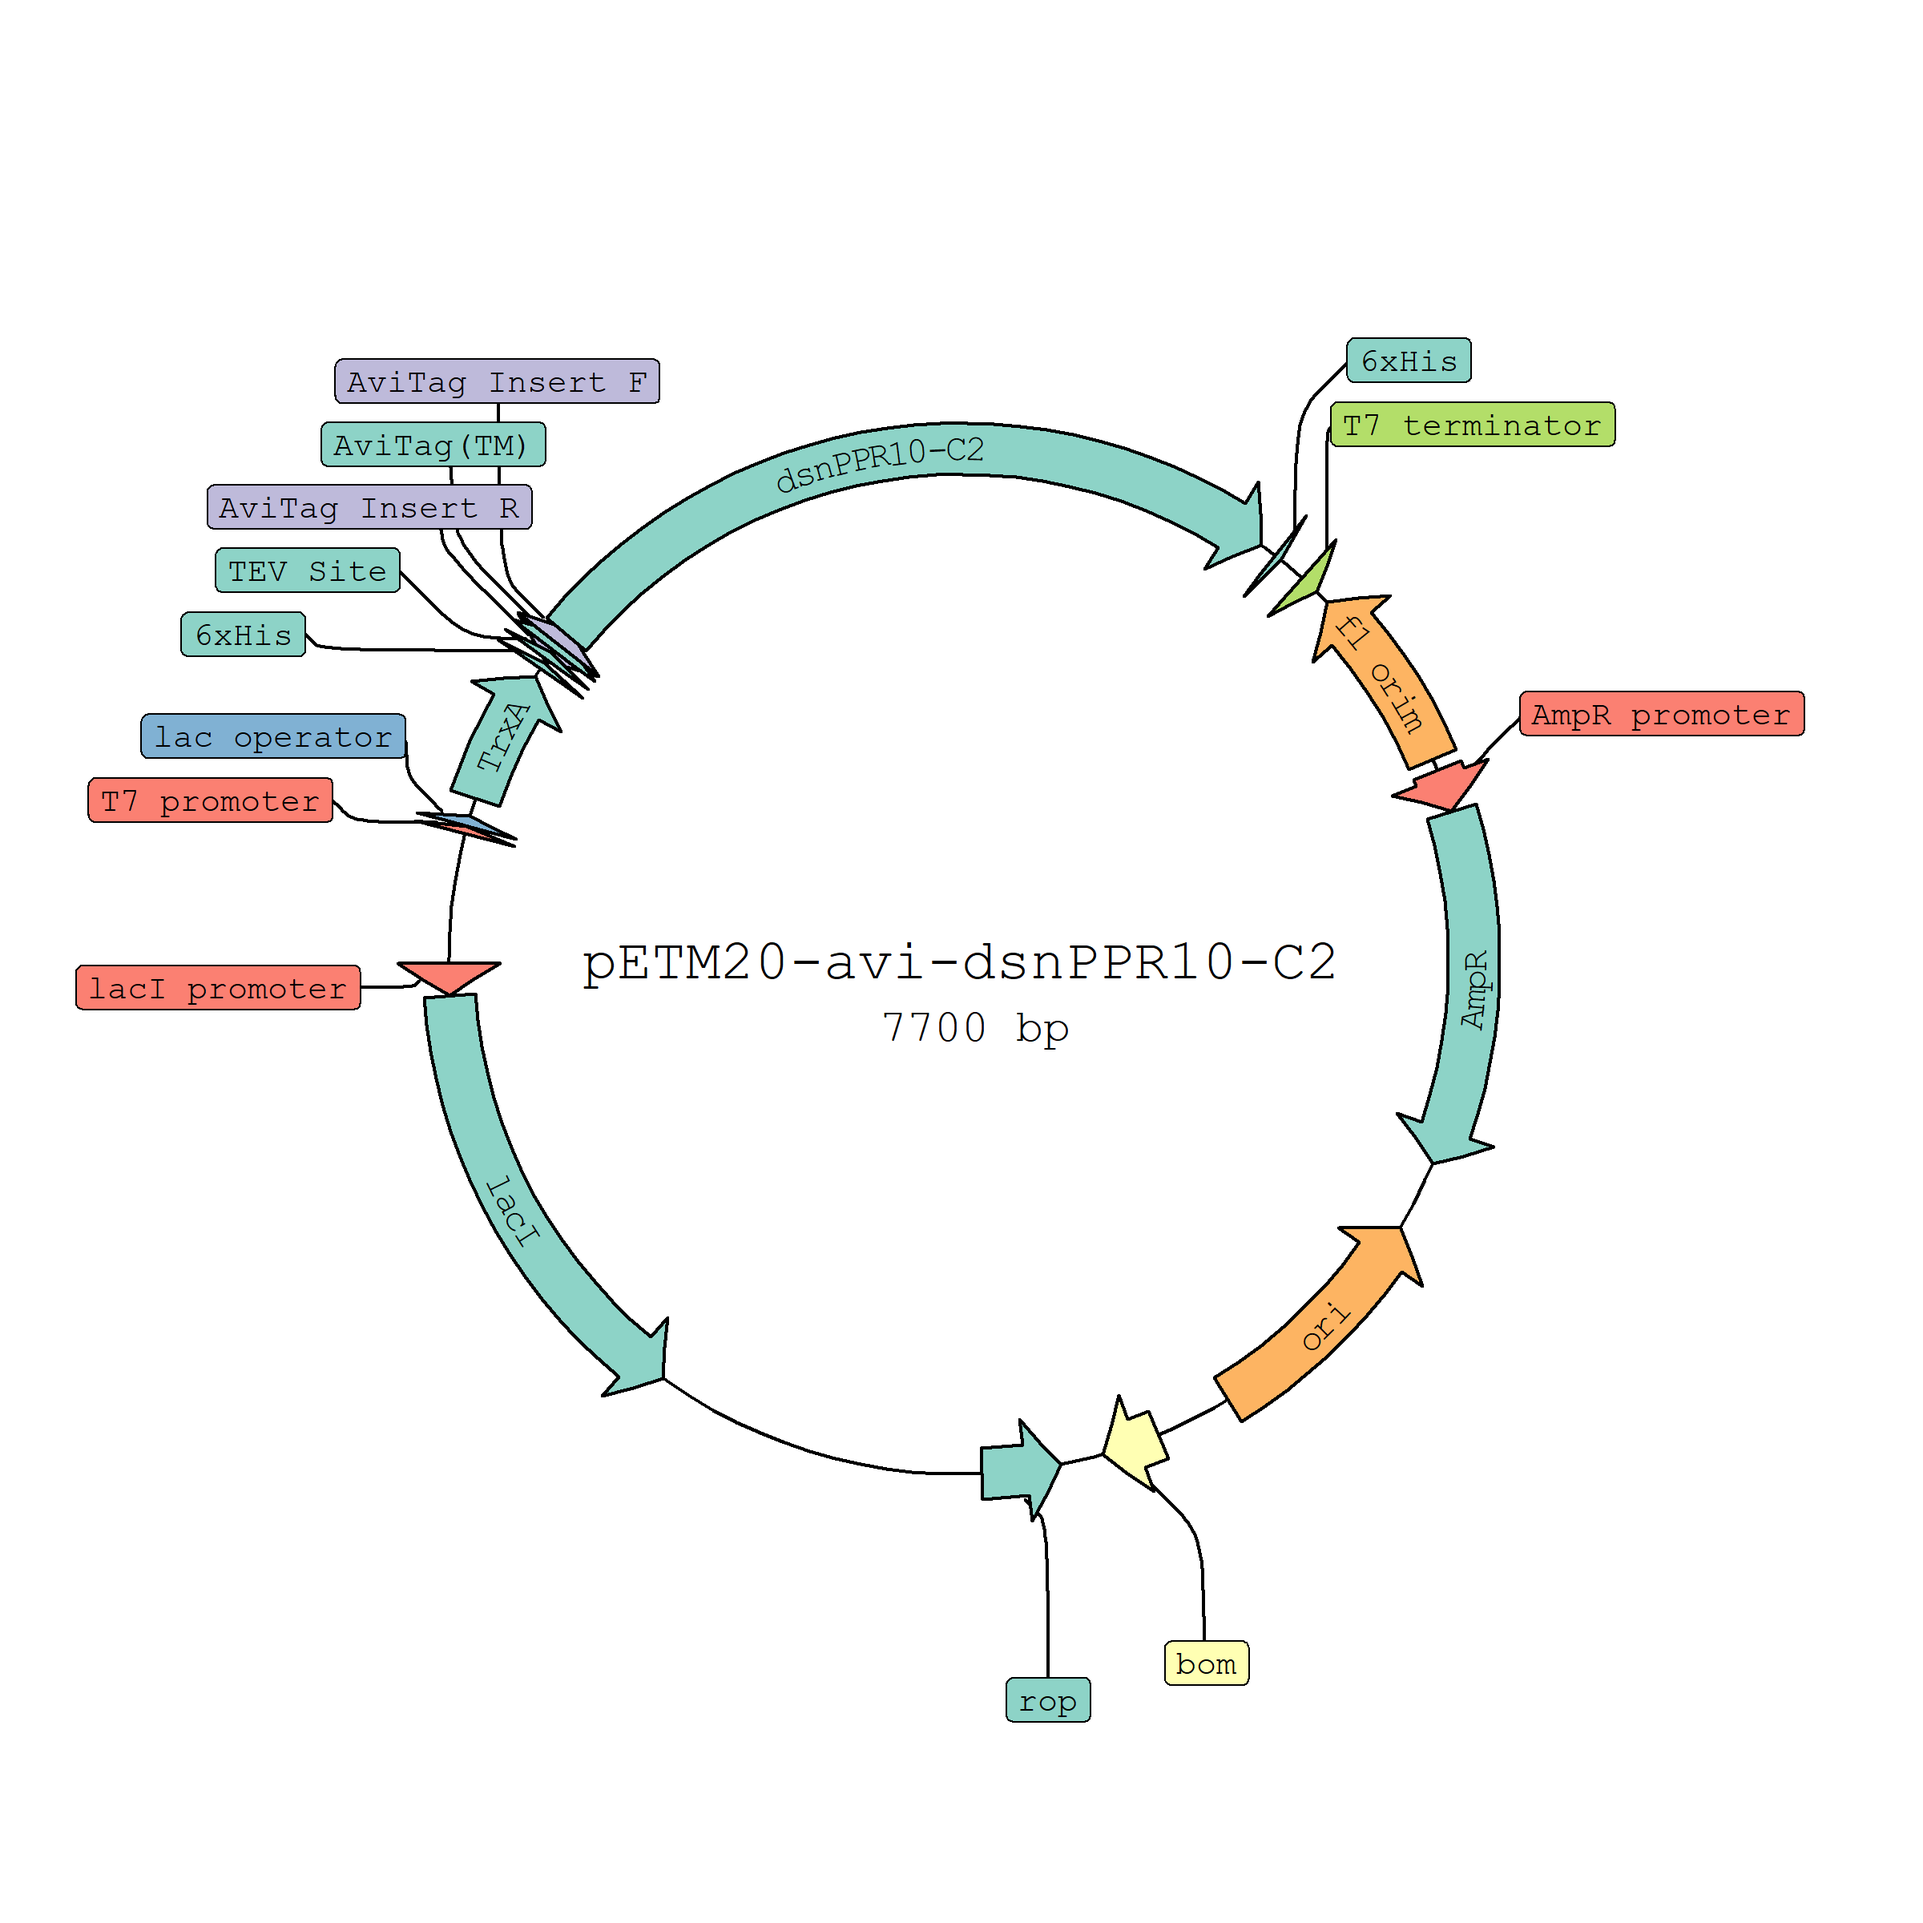
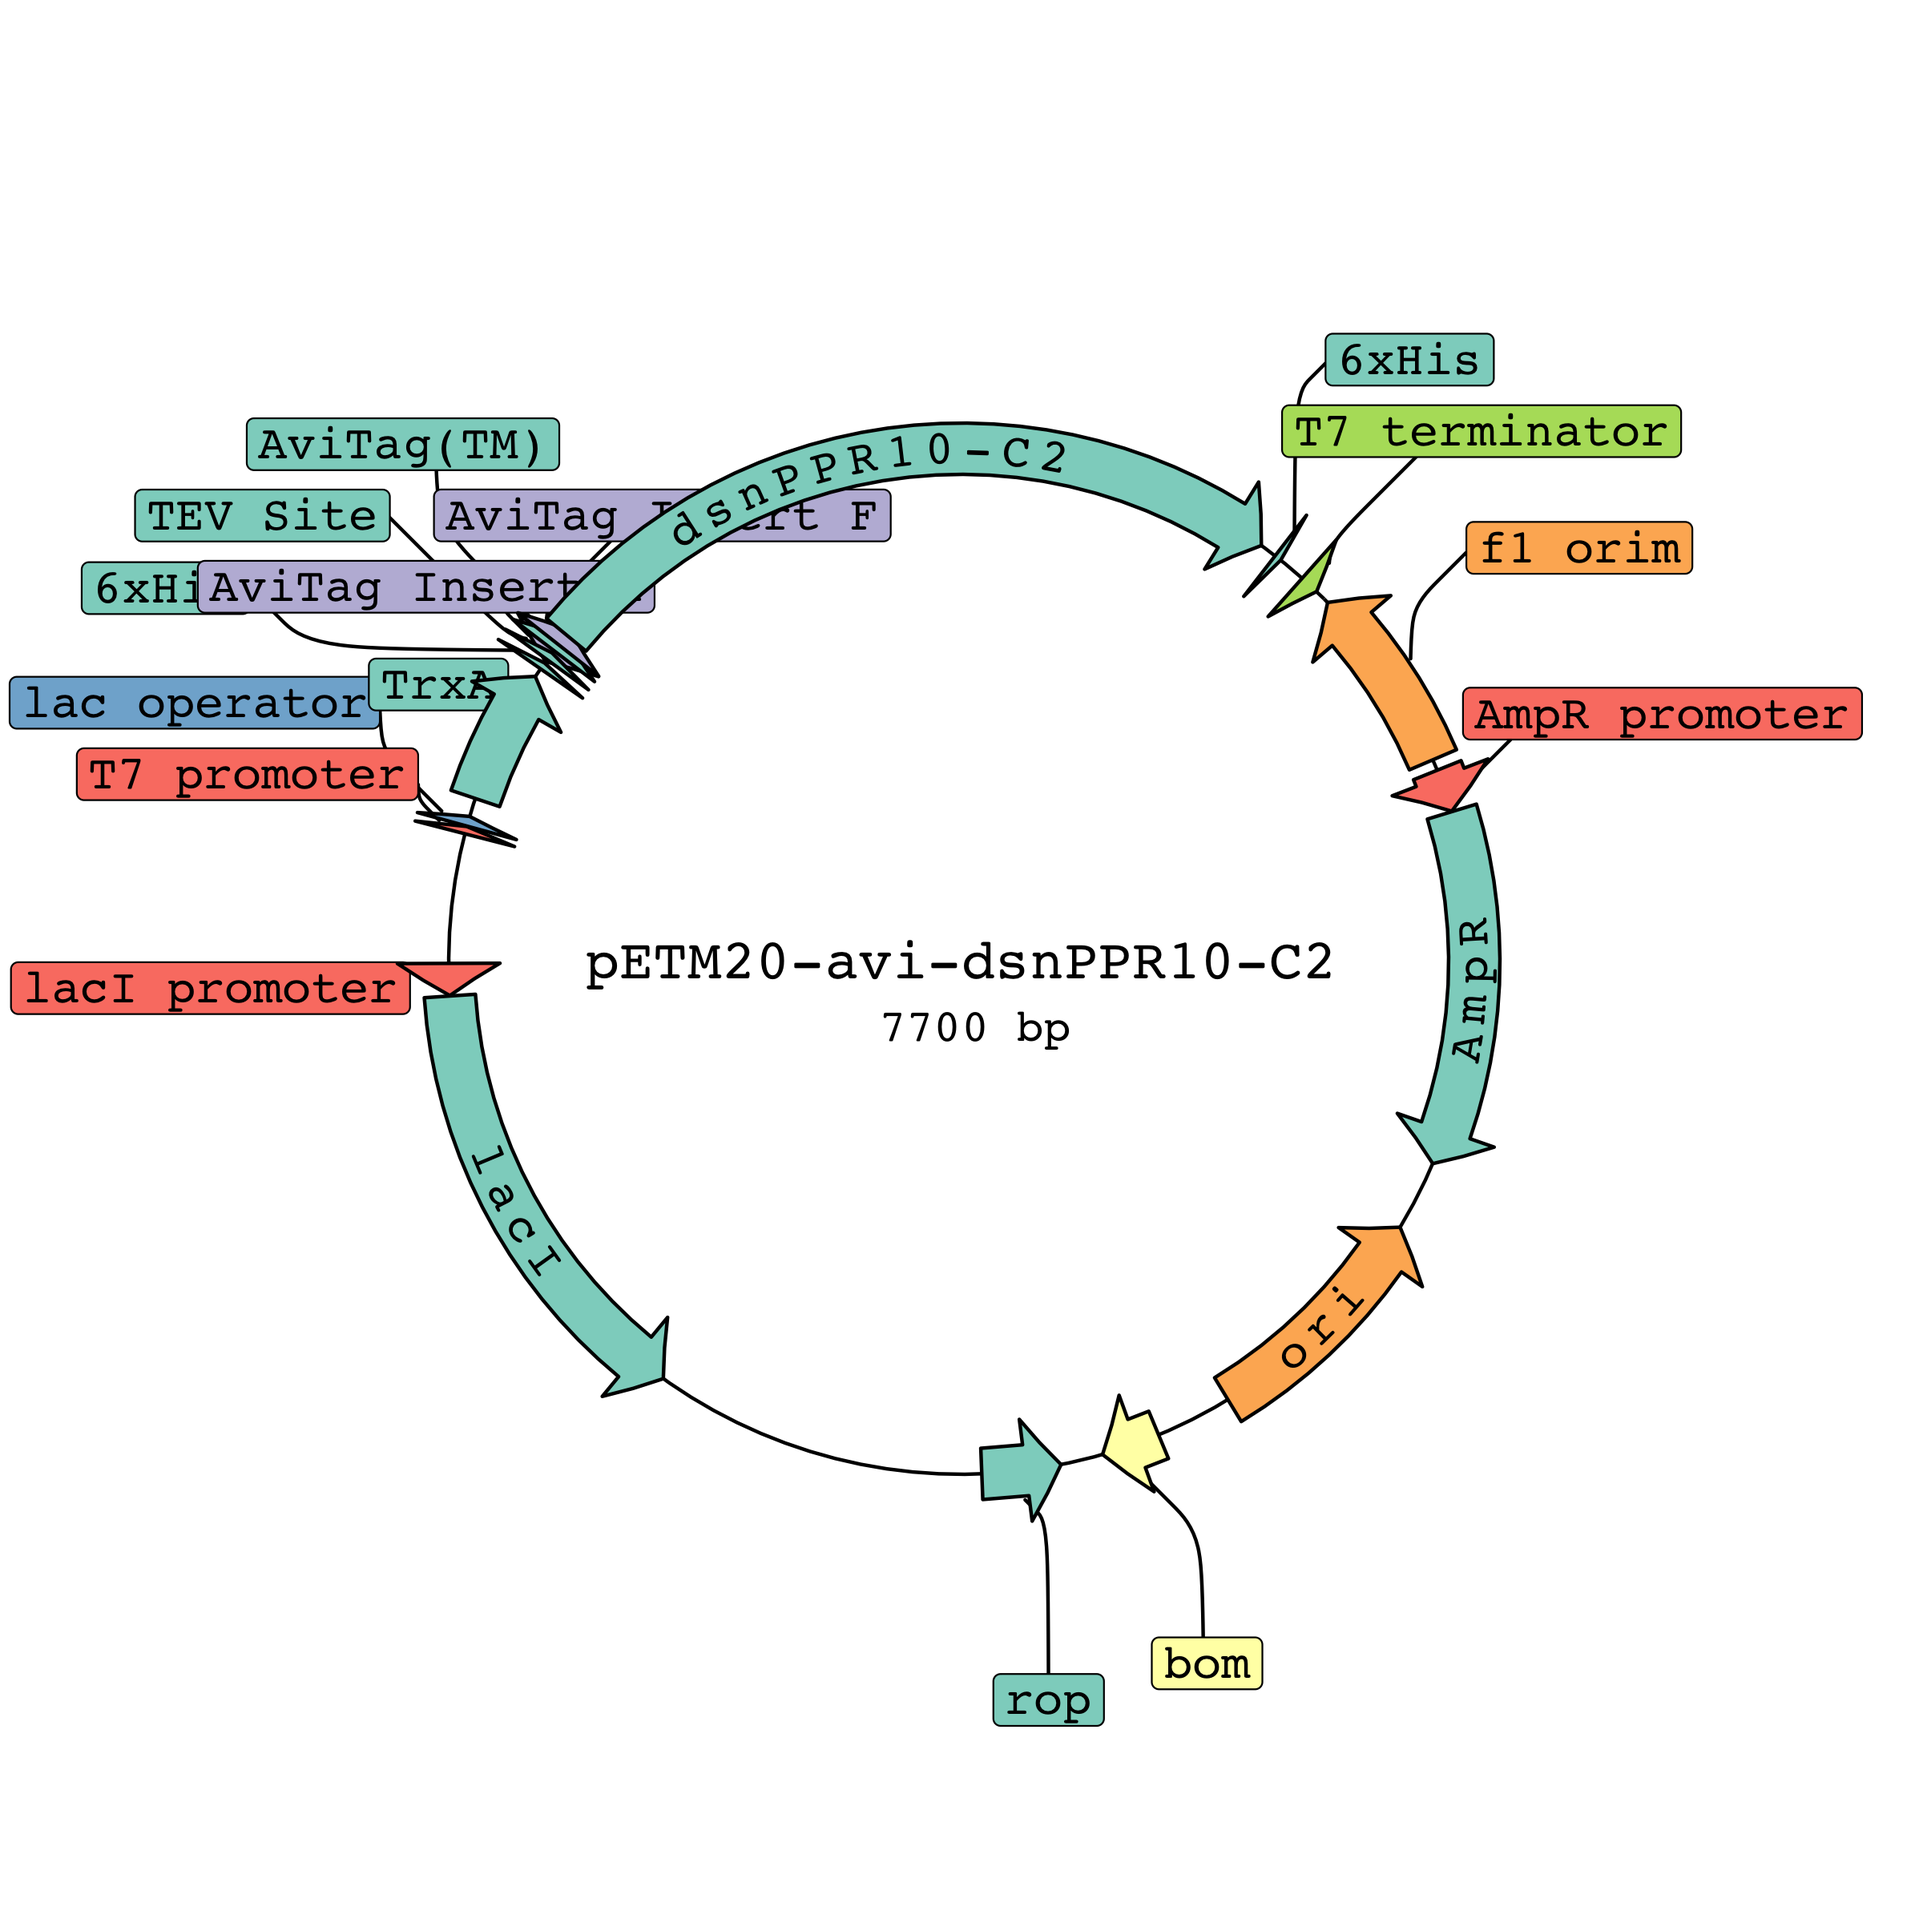
new readme files

diff --git a/README.md b/README.md
@@ -30,7 +30,8 @@ plasmid <- parse_plasmid("data/petm20.gb")
 
 p <- render_plasmap(plasmid,
                     rotation = 45,
-                    plasmid_name = "pETM20-avi-dsnPPR10-C2")
+                    plasmid_name = "pETM20-avi-dsnPPR10-C2", 
+                    curved_scaling = 1.2)
 
 p
 ```
@@ -82,3 +83,46 @@ p
 ```
 
 <img src="man/figures/example3-1.png" style="display: block; margin: auto;" />
+
+### Scale it back
+
+To overcome this, you must manually specify a scaling factor to reduce
+the size and width of the text (which will scale proportionally).
+
+Currently the scaling factors are curved\_scaling (which scales the size
+of the text and also the scale between the letters) and size\_scale
+which additionally scales the distance between the letters.
+
+Currently it’s a bad system where for a smaller image, the actual arrow
+is smaller and thus the distance between each individual plotted letter
+needs to be increased.
+
+I haven’t figured out the way to do that well yet - so currently they
+are both just hacky parameters to fiddle with.
+
+Will return to in the morning when I am less tired.
+
+This howwerver *must* be specified in the original `render_plasmap()`
+call, and cannot be applied afterwards in any kind of `ggplot::ggsave()`
+call or in rendering.
+
+> I have an idea of how to overcome this, but it’ll be a while before
+> anything is implemented or tested to see if it will even work.
+
+``` r
+p <- render_plasmap(plasmid,
+                    rotation = 60,
+                    name_size = 3,
+                    plasmid_name = "pETM20-avi-dsnPPR10-C2", 
+                    curved_scaling = 0.5,
+                    size_scale = 1.5
+                    )
+
+p
+```
+
+<img src="man/figures/current-fix-1.png" style="display: block; margin: auto;" />
+
+``` r
+# ggplot2::ggsave(file = "~/../Desktop/testing.pdf", plot = p)
+```
